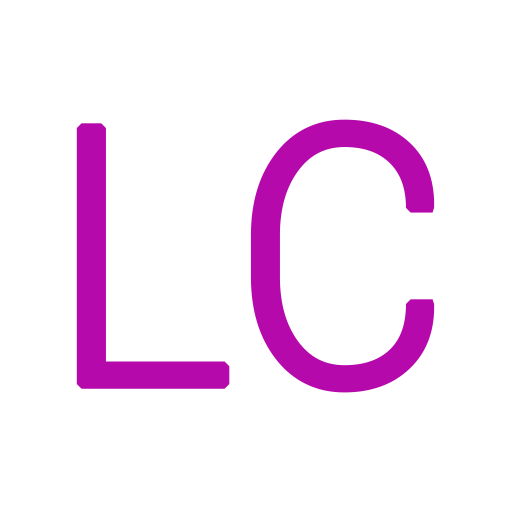
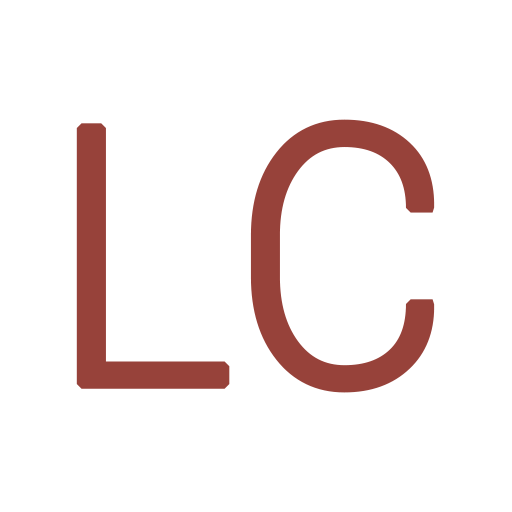
Edit - Color Theme

Changed region(s): [[0.4688, 0.2188, 0.875, 0.7812], [0.125, 0.2188, 0.4688, 0.7812]]

diff --git a/blog/index.html b/blog/index.html
@@ -30,7 +30,15 @@ pagination:
 
       <p>Los relatos y fragmentos de esta sección están todos bajo licencia <strong>Creative Commons Atribución-NoComercial-SinDerivadas 4.0 Internacional</strong> (<a href="https://creativecommons.org/licenses/by-nc-nd/4.0/deed.es" target="_blank">CC BY-NC-ND 4.0</a>).</p>
 
-      <p><strong>Disclaimer:</strong> Los contenidos presentados en estas obras de ficción son puramente ficticios y no tienen relación alguna con personas, lugares o eventos reales. Cualquier similitud con hechos, lugares o personas, vivas o muertas, es mera coincidencia. El contenido de algunas obras puede ofender o herir la susceptibilidad de algunas personas, por lo que se recomienda discreción. El autor no asume ninguna responsabilidad por cualquier posible ofensa o herida a la susceptibilidad de algunas personas que pudieran derivarse del contenido de estas obras. La lectura y comprensión de estas obras es responsabilidad exclusiva del lector. Si decide leer, hágalo bajo su propia responsabilidad.</p>
+      <div class="admonition warning">      
+        <p class="admonition-title">
+          <svg class="admonition-icon" xmlns="http://www.w3.org/2000/svg" width="19" height="19" fill="#954535" class="bi bi-exclamation-triangle-fill" viewBox="0 0 16 16">
+          <path d="M8.982 1.566a1.13 1.13 0 0 0-1.96 0L.165 13.233c-.457.778.091 1.767.98 1.767h13.713c.889 0 1.438-.99.98-1.767L8.982 1.566zM8 5c.535 0 .954.462.9.995l-.35 3.507a.552.552 0 0 1-1.1 0L7.1 5.995A.905.905 0 0 1 8 5zm.002 6a1 1 0 1 1 0 2 1 1 0 0 1 0-2z"/>
+          </svg>
+          Disclaimer
+        </p>
+        <p>Los contenidos presentados en estas obras de ficción son puramente ficticios y no tienen relación alguna con personas, lugares o eventos reales. Cualquier similitud con hechos, lugares o personas, vivas o muertas, es mera coincidencia. El contenido de algunas obras puede ofender o herir la susceptibilidad de algunas personas, por lo que se recomienda discreción. El autor no asume ninguna responsabilidad por cualquier posible ofensa o herida a la susceptibilidad de algunas personas que pudieran derivarse del contenido de estas obras. La lectura y comprensión de estas obras es responsabilidad exclusiva del lector. Si decide leer, hágalo bajo su propia responsabilidad.</p>
+      </div>
     </article>
   </br>
   {% endif %}

diff --git a/_sass/_base.scss b/_sass/_base.scss
@@ -2,6 +2,55 @@
  * Styles for the base elements of the theme.
  ******************************************************************************/
 
+// Disclaimer
+
+.admonition, div.admonition {
+    margin: 1.5625em auto;
+    padding: 0 0.6rem 0.8rem;
+    overflow: hidden;
+    page-break-inside: avoid;
+    border-left: 0.2rem solid;
+    border-left-color: #{$custom-color};    
+    border-radius: 0.2rem;   
+    box-shadow: 0 0.2rem 0.5rem rgba(0, 0, 0 , 0.15), 0 0 0.0625rem rgba(0, 0, 0 , 0.10); 
+    transition: color .25s,background-color .25s,border-color .25s;
+}
+
+div.admonition {
+    margin-top: 30px;
+    margin-bottom: 10px;
+    padding: 7px;
+}
+
+.admonition.warning>.admonition-title, div.admonition.warning>.admonition-title {
+    margin-top: -1em;
+    background-color: #{$code-bg-color-light};
+}
+
+.admonition>.admonition-title, div.admonition>.admonition-title {
+    position: relative;
+    margin: 0 -0.6rem;
+    padding: 0.8em 0.6rem 0.4rem 2rem;
+    font-weight: 700;
+    background-color: #{$code-bg-color-light};
+}
+
+p.admonition-title {
+    color: #{$custom-color};   
+}
+
+.admonition p.admonition-title~*, div.admonition p.admonition-title~* {
+    margin-left: 1.8rem;
+    margin-right: 1.8rem;    
+    margin-top: 1.2rem;    
+}
+
+.admonition-icon {
+    margin-top: -0.2em;
+    margin-left: -1.2em;
+    margin-right: 0.1em;
+}
+
 // Typography
 
 //@import url('https://fonts.googleapis.com/css?family=Noto+Serif&display=swap');

diff --git a/_sass/_themes.scss b/_sass/_themes.scss
@@ -7,8 +7,8 @@
   --global-code-bg-color: #{$code-bg-color-light};
   --global-text-color: #{$black-color};
   --global-text-color-light: #{$grey-color};
-  --global-theme-color: #{$purple-color};
-  --global-hover-color: #{$purple-color};
+  --global-theme-color: #{$custom-color};
+  --global-hover-color: #{$custom-color};
   --global-footer-bg-color: #{$grey-color-dark};
   --global-footer-text-color: #{$grey-color-light};
   --global-footer-link-color: #{$white-color};

diff --git a/_sass/_variables.scss b/_sass/_variables.scss
@@ -30,9 +30,11 @@ $grey-color-dark:     darken($grey-color, 25%);
 $white-color: #ffffff !default;
 $black-color: #000000 !default;
 
-
 // Theme colors
 
-$code-bg-color-light:     rgba($purple-color, 0.05);
+$custom-color: #954535 !default;
+$code-bg-color-light:     #F5F5DC;
 $code-bg-color-dark:      #2c3237 !default;
 
+//$code-bg-color-light:     rgba($purple-color, 0.05);
+//$code-bg-color-dark:      #2c3237 !default;
